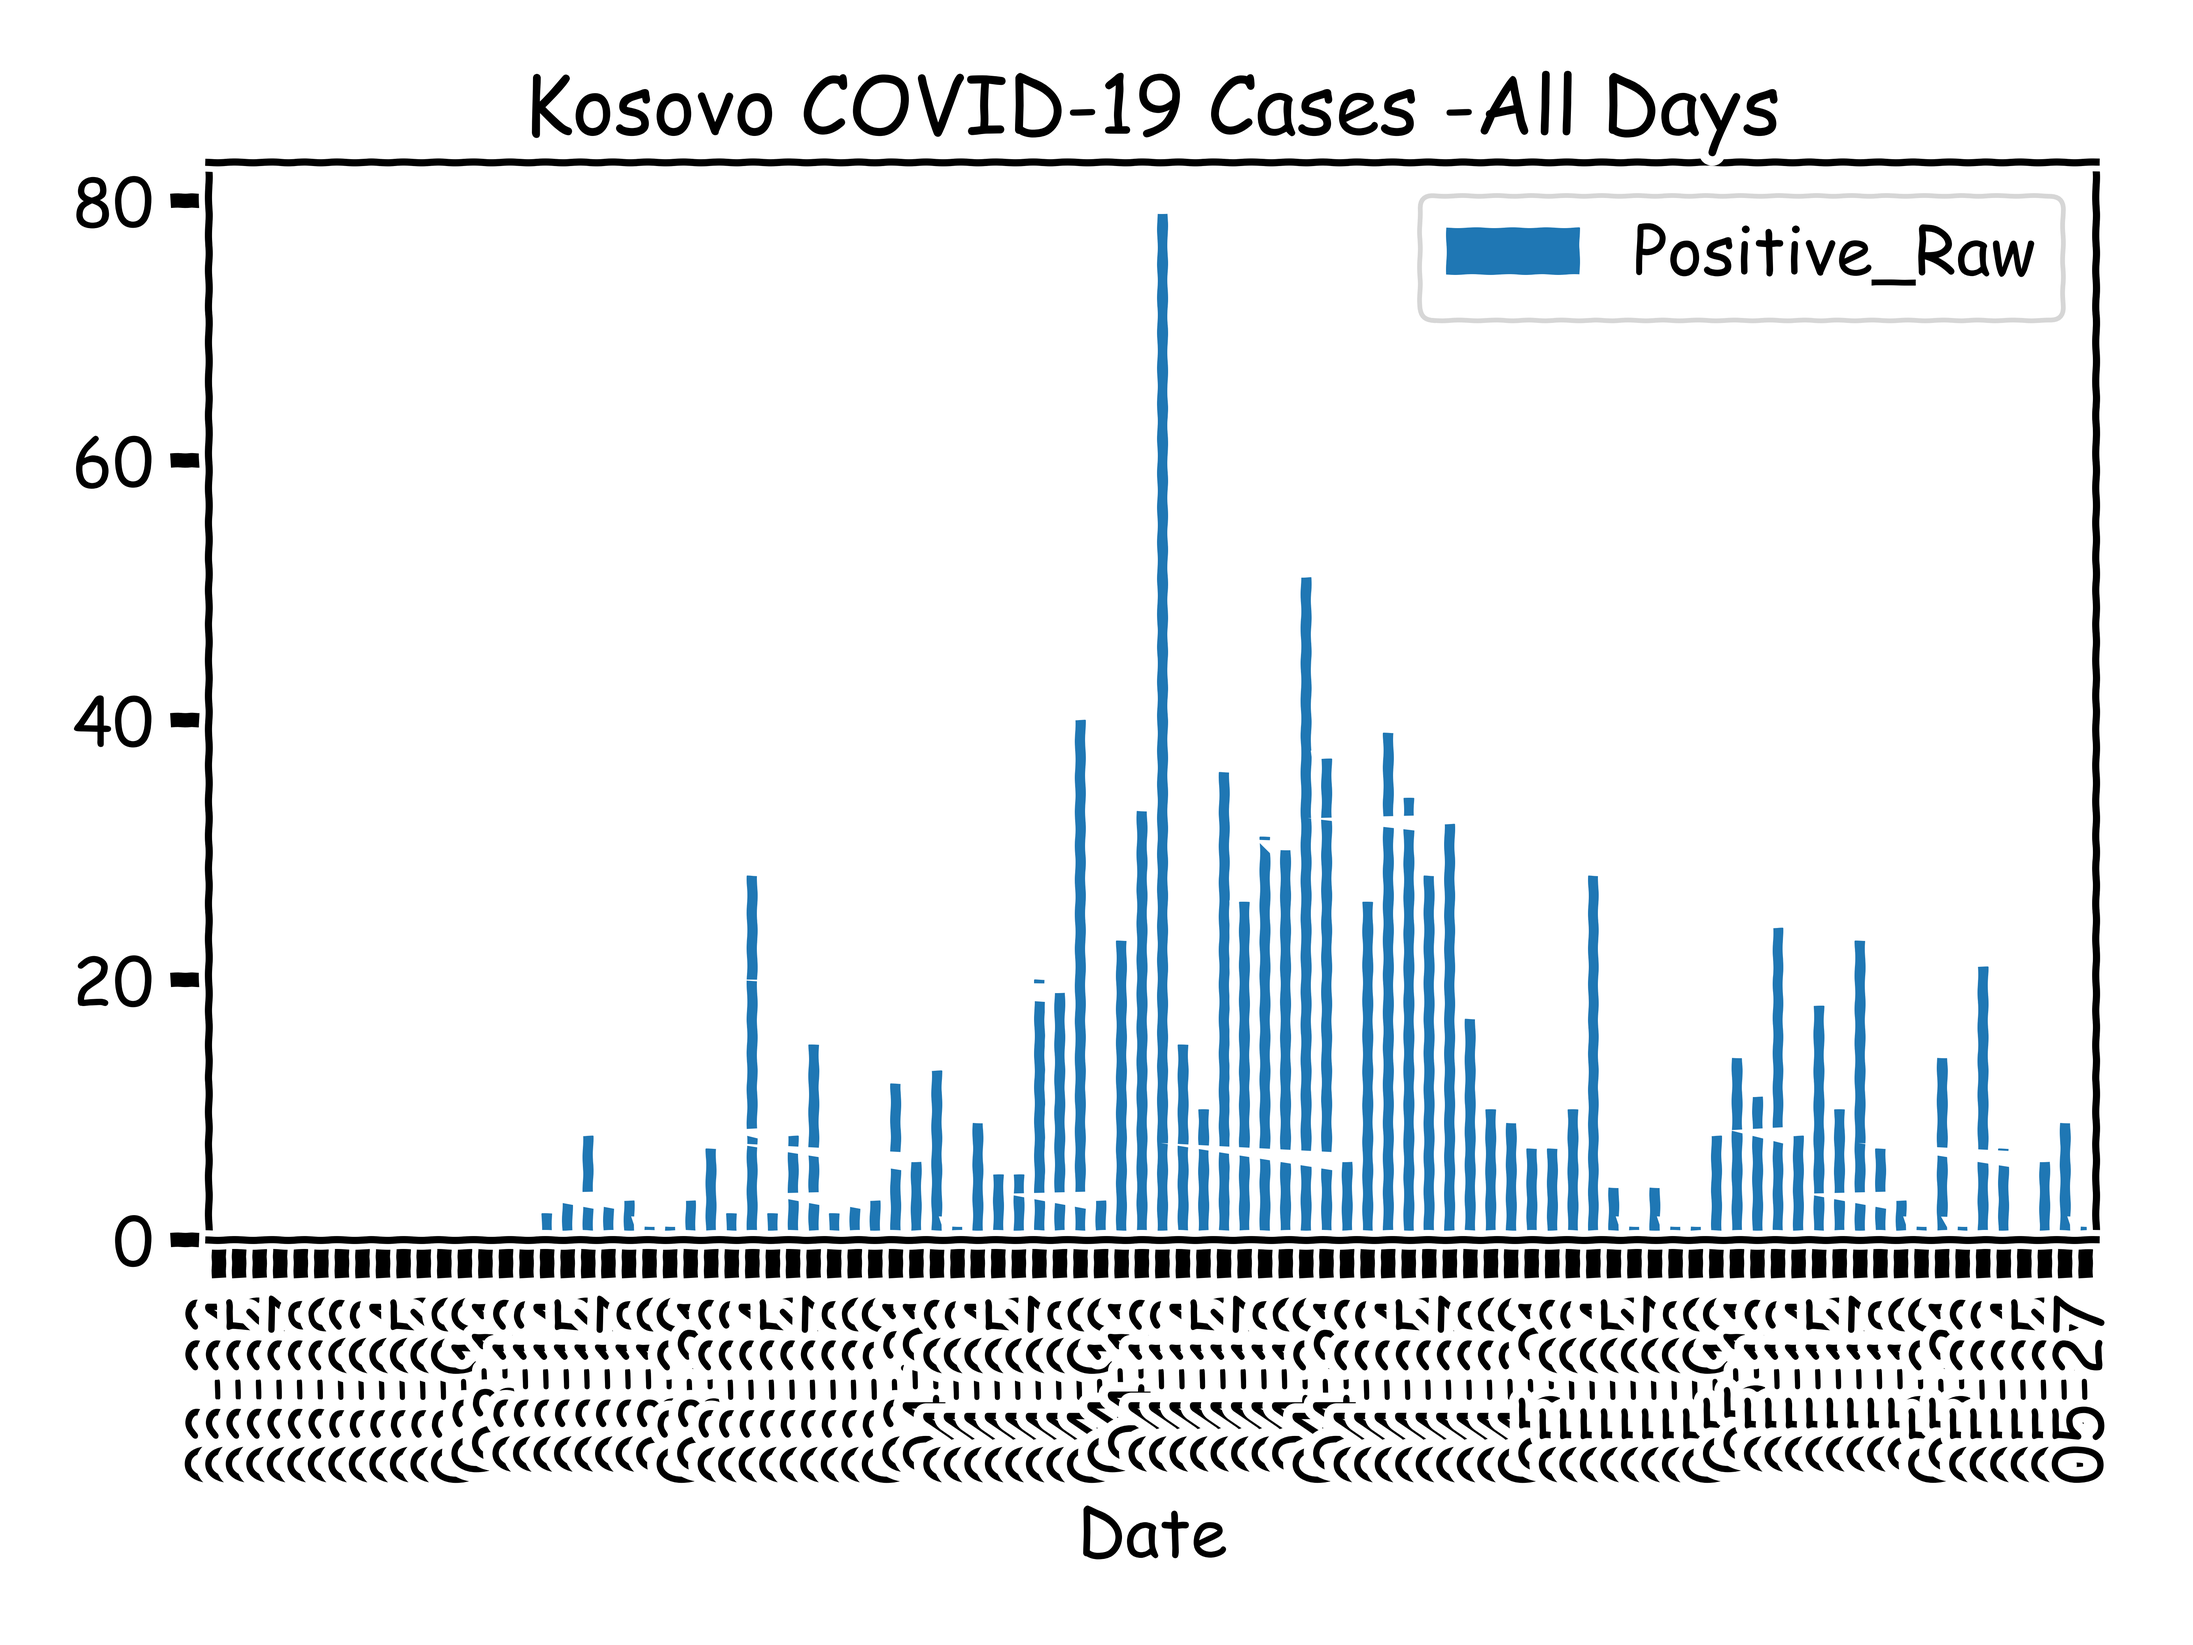
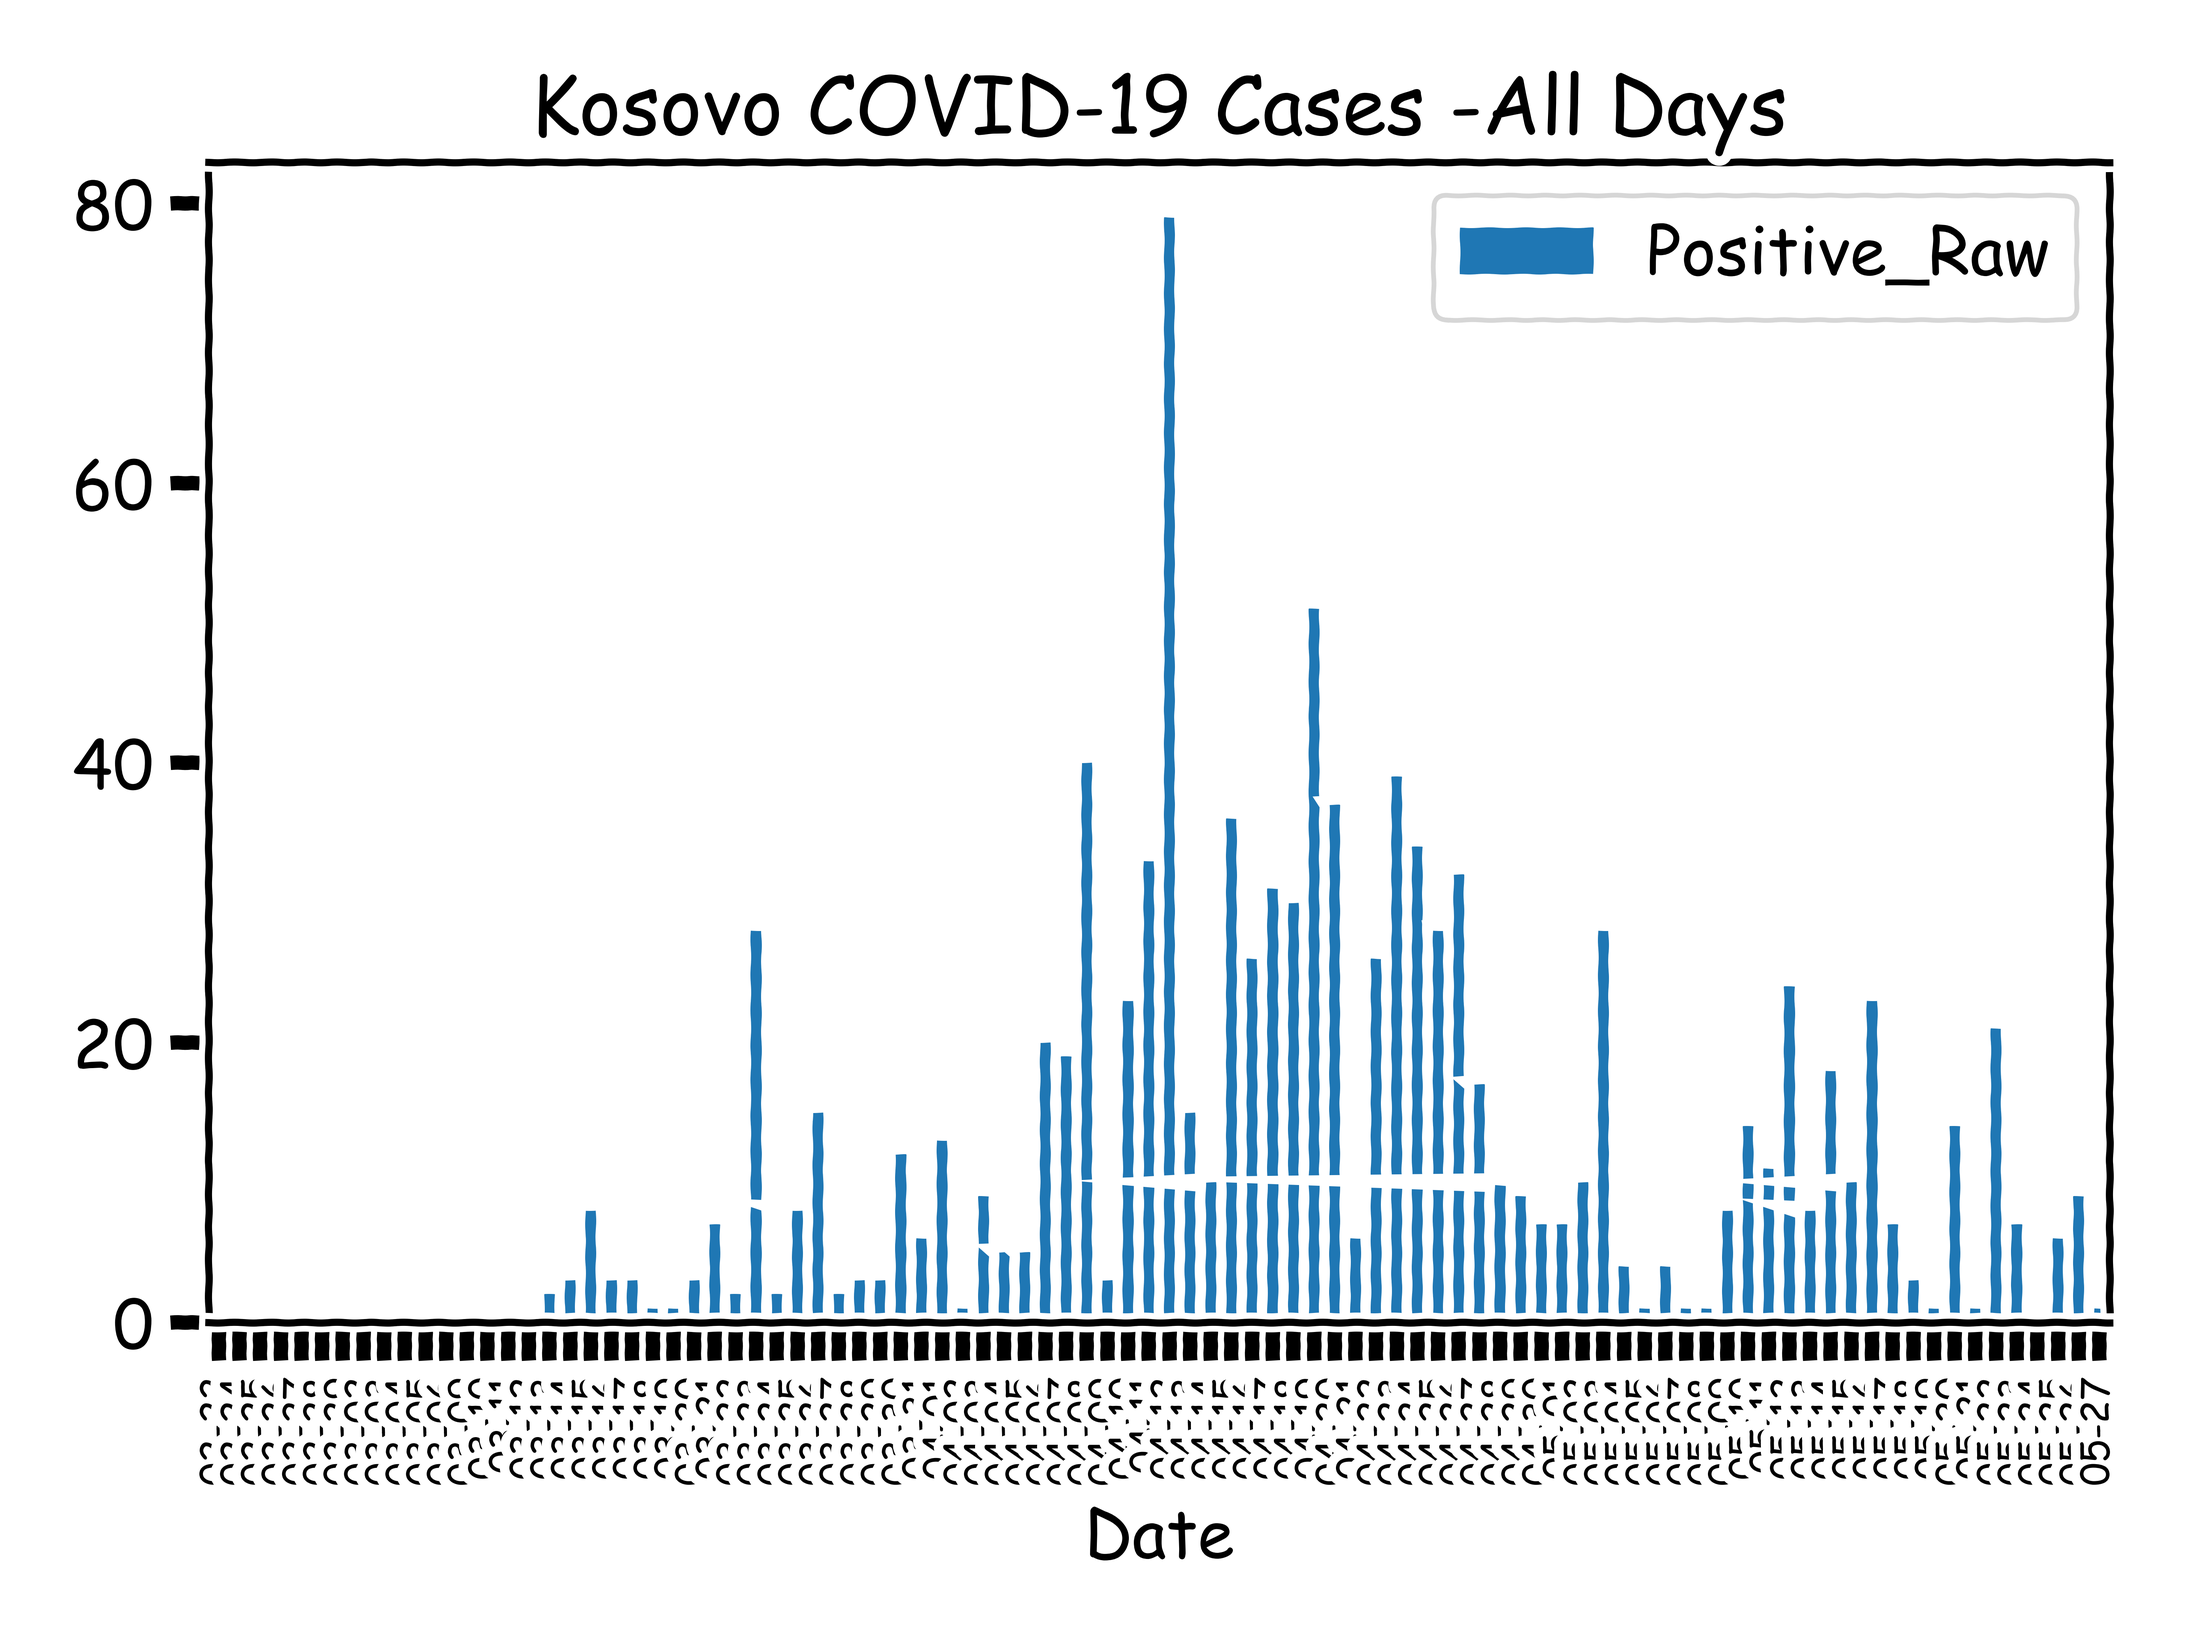
Daily push for 20200528

diff --git a/covid.py b/covid.py
@@ -129,7 +129,7 @@ with plt.xkcd():
     CPDelta_df = COVID_Raw[['Positive_Raw']]
     ticks = CPDelta_df.index.strftime('%m-%d').values
     deltaFig = CPDelta_df.plot(kind='bar', title='Kosovo COVID-19 Cases -All Days')
-    deltaFig.set_xticklabels(ticks)
+    deltaFig.set_xticklabels(ticks, fontsize=8)
     deltaFig.minorticks_off()
     deltaFig.figure.tight_layout()
     deltaFig.figure.savefig('Kosovo COVID-19 Positive Cases -ALL Days Bar.png', dpi=900)
